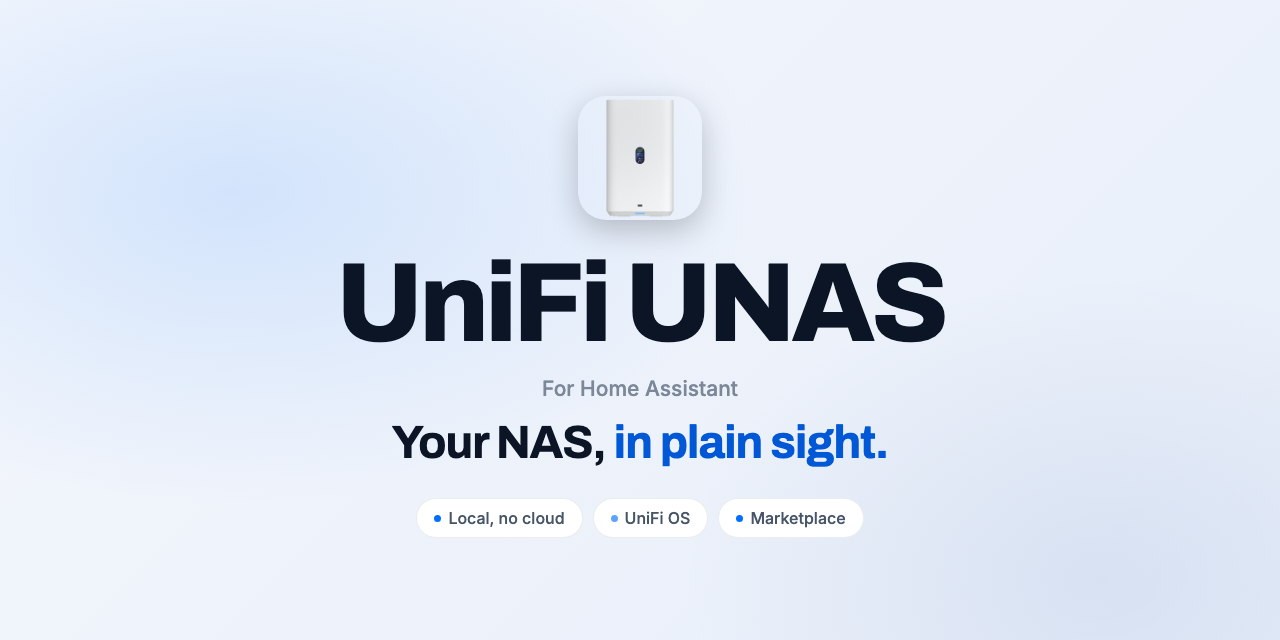
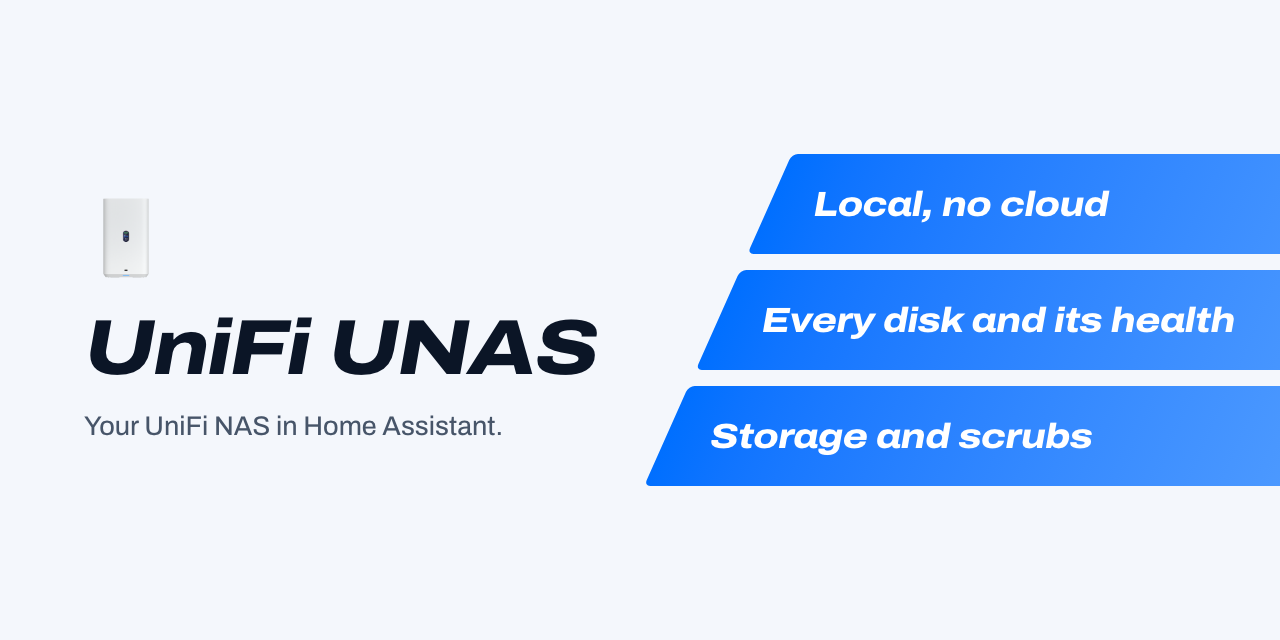
README and project page in the v2 design
Title banner with the lanes, Install and Set up as one Get started, shared
footer. The page loads theme v2 (Archivo from sh1ft-w.github.io), hero left
with the three key facts on the lanes.

Claude-Session: https://claude.ai/code/session_01TLmTtZLAvnS1BJ3w9tzxXq

diff --git a/docs/index.html b/docs/index.html
@@ -13,20 +13,17 @@
 <meta property="og:description" content="Your UniFi NAS in Home Assistant. Storage, disks and health, local, no cloud.">
 <meta property="og:image" content="https://sh1ft-w.github.io/unifi-unas/images/readme-title-social.png">
 <link rel="icon" href="logo.png">
-<link rel="preconnect" href="https://fonts.googleapis.com">
-<link rel="preconnect" href="https://fonts.gstatic.com" crossorigin>
-<link href="https://fonts.googleapis.com/css2?family=Archivo:wght@600;700;800;900&family=Inter:wght@400;500;600&family=JetBrains+Mono:wght@400;500&display=swap" rel="stylesheet">
-<!-- Shared SH1FT-W design (tokens, glass navigation, light/dark, DE/EN, reveal) -->
-<link rel="stylesheet" href="https://sh1ft-w.github.io/theme/v1/theme.css">
-<script src="https://sh1ft-w.github.io/theme/v1/theme.js"></script>
+<!-- Shared SH1FT-W design, version 2 (tokens, Archivo, navigation, light/dark, DE/EN, the lanes) -->
+<link rel="stylesheet" href="https://sh1ft-w.github.io/theme/v2/theme.css">
+<script src="https://sh1ft-w.github.io/theme/v2/theme.js"></script>
 <style>
 /* UNAS-Palette: kühles Weiß bei Tag, tiefes Nachtblau bei Nacht, ein Akzent in UniFi-Blau */
 :root {
   --accent: #006FFF; --accent-ink: #0058D6; --on-accent: #ffffff;
   --orange: #006FFF; --orange-ink: #0058D6; --orange-tint: rgba(0,111,255,0.10); --orange-glow: rgba(0,111,255,0.34);
-  --font: "Inter", -apple-system, BlinkMacSystemFont, system-ui, sans-serif;
-  --display: "Archivo", "Inter", -apple-system, BlinkMacSystemFont, system-ui, sans-serif;
-  --mono: "JetBrains Mono", ui-monospace, "SF Mono", Menlo, monospace;
+  --font: "Archivo", -apple-system, BlinkMacSystemFont, system-ui, sans-serif;
+  --display: "Archivo", -apple-system, BlinkMacSystemFont, system-ui, sans-serif;
+  --mono: ui-monospace, "SF Mono", Menlo, monospace;
   --bg: #F4F7FC; --bg-2: #E9EFF8; --card: #FFFFFF; --card-2: #F1F5FB;
   --ink: #0B1526; --ink-2: #475569; --ink-3: rgba(11,21,38,0.54);
   --line: rgba(5,25,60,0.11); --chip: rgba(5,25,60,0.06);
@@ -93,9 +90,6 @@ section.tint { background: var(--bg-2); }
 
 /* Hero */
 .hero { padding: clamp(56px, 9vw, 112px) 0 clamp(64px, 8vw, 104px); text-align: center; overflow: hidden; }
-.hero .glow { position: absolute; inset: -20% -10% auto; height: 90%; pointer-events: none;
-  background: radial-gradient(40% 36% at 30% 30%, rgba(0,111,255,0.18), transparent 70%), radial-gradient(36% 34% at 72% 24%, rgba(92,163,255,0.16), transparent 70%);
-  filter: blur(50px); }
 .hero .wrap { position: relative; }
 .hero .lead { max-width: 640px; margin-left: auto; margin-right: auto; }
 .cta { display: flex; flex-wrap: wrap; gap: 12px; justify-content: center; margin-top: 34px; }
@@ -265,6 +259,44 @@ footer .fine { flex-basis: 100%; line-height: 1.6; }
   .tbl.core tr { display: table-row; padding: 0; } .tbl.core th, .tbl.core td { display: table-cell; padding: 10px; border-top: 1px solid var(--line); }
   .tbl.core thead th { border-top: 0; font-size: 11px; letter-spacing: 0.02em; }
 }
+/* ---- theme v2 ---- */
+:root { --lane-a: #006FFF; --lane-b: #5CA3FF; --radius: 20px; --radius-lg: 28px; --max: 1200px; }
+body { font-family: var(--font); }
+h1 { font-size: clamp(44px, 6vw, 84px); line-height: 1; font-weight: 800; font-stretch: 118%; font-style: italic; letter-spacing: -0.025em; }
+h2 { font-size: clamp(30px, 3.8vw, 48px); line-height: 1.08; font-weight: 750; font-stretch: 112%; letter-spacing: -0.02em; }
+h3 { font-stretch: 106%; }
+h1 em, h2 em { color: inherit; font-style: inherit; }
+.center { text-align: left; } .center .lead { margin-left: 0; margin-right: 0; }
+.head { max-width: 50em; }
+.eyebrow { text-transform: none; letter-spacing: 0; font-size: 16px; font-weight: 650; margin-bottom: 12px; }
+.eyebrow::before { display: none; }
+.cap, .fict { text-align: left; }
+.flow { margin: 0; }
+.btn { border-radius: 12px; box-shadow: none; }
+.btn.ghost { background: var(--chip); box-shadow: none; }
+.pill { box-shadow: none; background: var(--chip); border-radius: 8px; }
+.b, .tile, .panel, .panel-ill, .tbl, .faq details, .flow .lane { box-shadow: none; border: 1px solid var(--line); }
+.b .tag, .tg, .tbl thead th { text-transform: none; letter-spacing: 0; font-size: 13px; }
+.b .tag, .tg { border-radius: 6px; }
+.tile .ico { border-radius: 10px; }
+.hero { text-align: left; padding: clamp(48px, 7vw, 96px) 0 clamp(56px, 7vw, 96px); overflow: hidden; }
+.hero .wrap.cols { display: grid; grid-template-columns: minmax(0, 1.15fr) minmax(0, 1fr); gap: clamp(24px, 4vw, 64px); align-items: center; }
+.hero .mark { width: 64px; height: 64px; border-radius: 15px; margin-bottom: 26px; }
+.hero .lead { margin-left: 0; max-width: 34em; }
+.cta, .meta { justify-content: flex-start; }
+.finale .cta { justify-content: center; }
+.hero .s-lanes { margin-right: calc(-1 * var(--gutter) - 14vw); }
+.s-track b { color: #fff; font: italic 800 clamp(20px, 2.5vw, 34px)/1 var(--font); font-stretch: 116%; letter-spacing: -0.015em; white-space: nowrap; }
+/* The scene: a full-width stage below the two-column hero */
+.stage { max-width: none; margin: clamp(48px, 6vw, 80px) 0 0; box-shadow: inset 0 0 0 1px rgba(255,255,255,0.06); }
+@media (max-width: 900px) { .hero .wrap.cols { grid-template-columns: 1fr; } .hero .s-lanes { margin: 8px calc(-1 * var(--gutter) - 8vw) 0 44px; } }
+/* Phone: the navigation has to fit the name, both switches and the button */
+@media (max-width: 480px) {
+  .nav { gap: 6px; padding: 0 6px 0 10px; }
+  .nav .brand { font-size: 14px; gap: 6px; min-width: 0; flex-shrink: 1; white-space: nowrap; overflow: hidden; }
+  .nav .btn.small { padding: 0 12px; flex: none; }
+  .s-track b { font-size: 17px; }
+}
 </style></head>
 <body>
 
@@ -289,20 +321,27 @@ footer .fine { flex-basis: 100%; line-height: 1.6; }
 </div>
 
 <section class="hero" id="top">
-  <div class="glow" aria-hidden="true"></div>
-  <div class="wrap">
-    <p class="eyebrow reveal"><span class="en">UniFi NAS in Home Assistant</span><span class="de">UniFi-NAS in Home Assistant</span></p>
-    <h1 class="reveal d1"><span class="en">Your NAS,<br><em>in plain sight.</em></span><span class="de">Dein NAS,<br><em>immer im Blick.</em></span></h1>
-    <p class="lead reveal d2"><span class="en">UniFi UNAS talks to UniFi OS and UniFi Drive the way their web interface does: <strong>storage, every disk with its health, drives, system values, the fan profile, data scrubbing and updates</strong>. Local, no cloud, nothing installed on the NAS.</span><span class="de">UniFi UNAS spricht mit UniFi OS und UniFi Drive wie deren Weboberfläche: <strong>Speicher, jede Festplatte mit ihrem Zustand, Laufwerke, Systemwerte, Lüfterprofil, Datenprüfung und Updates</strong>. Lokal, ohne Cloud, nichts auf dem NAS installiert.</span></p>
-    <div class="cta reveal d3">
-      <a class="btn" href="#install"><span class="en">Install from the Marketplace</span><span class="de">Über den Marketplace installieren</span></a>
-      <a class="btn ghost" href="https://github.com/SH1FT-W/unifi-unas#readme"><span class="en">Read the README</span><span class="de">Zur Anleitung</span></a>
+  <div class="wrap cols">
+    <div>
+      <img class="mark" src="logo.png" alt="" width="64" height="64">
+      <h1><span class="en">Your NAS, in plain sight.</span><span class="de">Dein NAS, immer im Blick.</span></h1>
+      <p class="lead reveal d2"><span class="en">UniFi UNAS talks to UniFi OS and UniFi Drive the way their web interface does: <strong>storage, every disk with its health, drives, system values, the fan profile, data scrubbing and updates</strong>. Local, no cloud, nothing installed on the NAS.</span><span class="de">UniFi UNAS spricht mit UniFi OS und UniFi Drive wie deren Weboberfläche: <strong>Speicher, jede Festplatte mit ihrem Zustand, Laufwerke, Systemwerte, Lüfterprofil, Datenprüfung und Updates</strong>. Lokal, ohne Cloud, nichts auf dem NAS installiert.</span></p>
+      <div class="cta reveal d3">
+        <a class="btn" href="#install"><span class="en">Install from the Marketplace</span><span class="de">Über den Marketplace installieren</span></a>
+        <a class="btn ghost" href="https://github.com/SH1FT-W/unifi-unas#readme"><span class="en">Read the README</span><span class="de">Zur Anleitung</span></a>
+      </div>
+      <p class="meta reveal d3">
+        <span class="pill"><i></i><span id="unas-version">Version 26.10.2</span></span>
+        <span class="en">Home Assistant 2026.9 or newer &middot; English and German &middot; Apache 2.0</span><span class="de">Home Assistant 2026.9 oder neuer &middot; Deutsch und Englisch &middot; Apache 2.0</span>
+      </p>
     </div>
-    <p class="meta reveal d3">
-      <span class="pill"><i></i><span id="unas-version">Version 26.10.2</span></span>
-      <span class="en">Home Assistant 2026.9 or newer &middot; English and German &middot; Apache 2.0</span><span class="de">Home Assistant 2026.9 oder neuer &middot; Deutsch und Englisch &middot; Apache 2.0</span>
-    </p>
-
+    <div class="s-lanes" aria-hidden="true">
+      <div class="s-lane"><div class="s-track"><b><span class="en">Local, no cloud</span><span class="de">Lokal, ohne Cloud</span></b></div></div>
+      <div class="s-lane"><div class="s-track"><b><span class="en">Every disk and its health</span><span class="de">Jede Festplatte mit Zustand</span></b></div></div>
+      <div class="s-lane"><div class="s-track"><b><span class="en">Storage and scrubs</span><span class="de">Speicher und Datenprüfung</span></b></div></div>
+    </div>
+  </div>
+  <div class="wrap">
     <div class="stage reveal d3" role="img" aria-label="Illustration: a UniFi NAS in a home setting, below it a storage card and a list of values. AI-generated scene, made-up values.">
       <img class="scene" src="images/hero-photo.webp" width="1106" height="563" fetchpriority="high" alt="">
       <div class="cards" style="margin-top: clamp(-28px, -2vw, -12px); position: relative;">
@@ -312,7 +351,7 @@ footer .fine { flex-basis: 100%; line-height: 1.6; }
             <div><div class="name">UNAS 2</div><div class="state"><span class="en">Storage OK &middot; RAID 1</span><span class="de">Speicher OK &middot; RAID 1</span></div></div>
             <span class="ok"><span class="en">Healthy</span><span class="de">Gesund</span></span>
           </div>
-          <div class="vol"><span><span class="en">USED</span><span class="de">BELEGT</span></span><span class="track"><i></i></span><span>18 %</span></div>
+          <div class="vol"><span><span class="en">Used</span><span class="de">Belegt</span></span><span class="track"><i></i></span><span>18 %</span></div>
           <div class="srcs"><span class="on"><span class="en">Default</span><span class="de">Standard</span></span><span><span class="en">Quiet</span><span class="de">Leise</span></span><span><span class="en">Cooling</span><span class="de">Kühlen</span></span></div>
           <div class="btns"><small><span class="en">Buttons</span><span class="de">Knöpfe</span></small><div class="srcs" style="margin-top:0"><span><span class="en">Restart</span><span class="de">Neu starten</span></span><span><span class="en">Data scrub</span><span class="de">Datenprüfung</span></span><span><span class="en">SMART test</span><span class="de">SMART-Test</span></span></div></div>
         </div>
@@ -512,8 +551,7 @@ footer .fine { flex-basis: 100%; line-height: 1.6; }
 
 <section class="finale">
   <div class="wrap narrow reveal">
-    <p class="eyebrow">UniFi UNAS</p>
-    <h2><span class="en">Know your disks.<br><em>Locally.</em></span><span class="de">Kenne deine Platten.<br><em>Lokal.</em></span></h2>
+    <h2><span class="en">Know your disks.<br>Locally.</span><span class="de">Kenne deine Platten.<br>Lokal.</span></h2>
     <p class="lead"><span class="en">One integration, every value UniFi Drive shows, no cloud.</span><span class="de">Eine Integration, jeder Wert aus UniFi Drive, keine Cloud.</span></p>
     <div class="cta">
       <a class="btn" href="#install"><span class="en">Install UniFi UNAS</span><span class="de">UniFi UNAS installieren</span></a>

diff --git a/README.md b/README.md
@@ -2,14 +2,14 @@
 
 <picture>
   <source media="(prefers-color-scheme: dark)" srcset="docs/images/readme-title-dark.webp" />
-  <img src="docs/images/readme-title-light.webp" alt="UniFi UNAS: Your NAS, in plain sight." />
+  <img src="docs/images/readme-title-light.webp" alt="UniFi UNAS: your UniFi NAS in Home Assistant. Local, no cloud. Every disk and its health. Storage and scrubs." />
 </picture>
 
 [![Version](https://img.shields.io/badge/dynamic/json?url=https%3A%2F%2Fraw.githubusercontent.com%2FSH1FT-W%2Funifi-unas%2Fmain%2Fcustom_components%2Funas%2Fmanifest.json&query=%24.version&label=version&style=flat-square&color=006FFF&labelColor=0B1526)](https://github.com/SH1FT-W/unifi-unas/releases/latest)
 [![Home Assistant](https://img.shields.io/badge/Home%20Assistant-2026.9%2B-006FFF?style=flat-square&labelColor=0B1526&logo=homeassistant&logoColor=white)](https://www.home-assistant.io)
 [![Marketplace](https://img.shields.io/badge/Marketplace-default-006FFF?style=flat-square&labelColor=0B1526)](https://hacs.xyz)
 
-<a href="https://sh1ft-w.github.io/unifi-unas"><b>Website</b></a>&emsp;<a href="#install">Install</a>&emsp;<a href="#set-up">Set up</a>&emsp;<a href="#entities">Entities</a>&emsp;<a href="CHANGELOG.md">Changelog</a>
+<a href="https://sh1ft-w.github.io/unifi-unas"><b>Website</b></a>&emsp;<a href="#get-started">Get started</a>&emsp;<a href="#entities">Entities</a>&emsp;<a href="#examples">Examples</a>&emsp;<a href="CHANGELOG.md">Changelog</a>
 
 </div>
 
@@ -19,7 +19,7 @@ Your UniFi NAS in Home Assistant: **storage, every disk with its health, drives,
 
 Ubiquiti offers no public API for UniFi Drive, so a Drive update can change what the integration reads. It is tested on a **UNAS 2**; UNAS 4, UNAS Pro, Pro 4 and Pro 8 share the same interface but are untested.
 
-## Which account for what
+## What you get
 
 |  | Local Drive user | With UniFi OS admin |
 |:--|:--:|:--:|
@@ -34,12 +34,19 @@ Without admin rights these buttons say the account lacks the rights; everything 
 
 **New in 26.11:** a problem sensor per storage pool with a repair notice while a RAID is damaged, and an extended SMART test per disk. Every change is in the [changelog](CHANGELOG.md).
 
-<a id="install"></a>
-## Install
+<a id="get-started"></a><a id="install"></a><a id="set-up"></a>
+## Get started
 
 [![Open in the Marketplace](https://my.home-assistant.io/badges/hacs_repository.svg)](https://my.home-assistant.io/redirect/hacs_repository/?owner=SH1FT-W&repository=unifi-unas&category=integration)
 
-Search for **UniFi UNAS** under **Settings > Marketplace** (called HACS before Home Assistant 2026.11), download it and restart Home Assistant.
+You need a **local** UniFi OS user with access to UniFi Drive. UI accounts with two-factor login do not work.
+
+1. **Install it.** Search for **UniFi UNAS** under **Settings > Marketplace** (called HACS before Home Assistant 2026.11), download it and restart Home Assistant.
+2. **Create the user** in UniFi OS. Give it admin rights only if you want the buttons from the table above.
+3. **Add the UNAS.** It usually shows up under **Settings > Devices & services > Discovered**, even after renaming it. If not, choose **Add integration > UniFi UNAS** and enter its IP address or host name.
+4. **Enter username and password.** Leave **Verify certificate** off unless the UNAS has a certificate from a trusted authority (see [Your data](#your-data)).
+
+New address or another account: **three dots > Reconfigure**. Verify certificate: **Configure**. If the UNAS rejects the password later, Home Assistant asks for new credentials by itself.
 
 <details>
 <summary>Install by hand</summary>
@@ -48,17 +55,6 @@ Search for **UniFi UNAS** under **Settings > Marketplace** (called HACS before H
 2. Copy `custom_components/unas` into `/config/custom_components/` and restart Home Assistant.
 
 </details>
-
-<a id="set-up"></a>
-## Set up
-
-You need a **local** UniFi OS user with access to UniFi Drive. UI accounts with two-factor login do not work.
-
-1. **Create the user** in UniFi OS. Give it admin rights only if you want the buttons from the table above.
-2. **Add the UNAS.** It usually shows up under **Settings > Devices & services > Discovered**, even after renaming it. If not, choose **Add integration > UniFi UNAS** and enter its IP address or host name.
-3. **Enter username and password.** Leave **Verify certificate** off unless the UNAS has a certificate from a trusted authority (see [Your data](#your-data)).
-
-New address or another account: **three dots > Reconfigure**. Verify certificate: **Configure**. If the UNAS rejects the password later, Home Assistant asks for new credentials by itself.
 
 <a id="entities"></a>
 ## Entities
@@ -98,6 +94,7 @@ IDs for a UNAS named "UNAS 2". Names are in English and German. New disks and dr
 
 </details>
 
+<a id="examples"></a>
 ## Examples
 
 Get a push when a disk reports a problem:
@@ -206,3 +203,11 @@ Test requirements: `pip install -r requirements_test.txt`. GitHub Actions runs t
 [Apache License 2.0](LICENSE). Copyright 2026 SH1FT-W.
 
 <sub>UniFi UNAS is an independent project, not affiliated with, endorsed or sponsored by Ubiquiti Inc. UniFi, UniFi OS, UniFi Drive and UNAS are trademarks of Ubiquiti Inc.</sub>
+
+<br/>
+
+<div align="center">
+<a href="https://sh1ft-w.github.io"><img src="https://sh1ft-w.github.io/readme/footer.png" width="640" alt="All SH1FT-W projects"></a>
+<br/>
+<sub>More open source for Home Assistant and the Mac at <a href="https://sh1ft-w.github.io">sh1ft-w.github.io</a></sub>
+</div>
